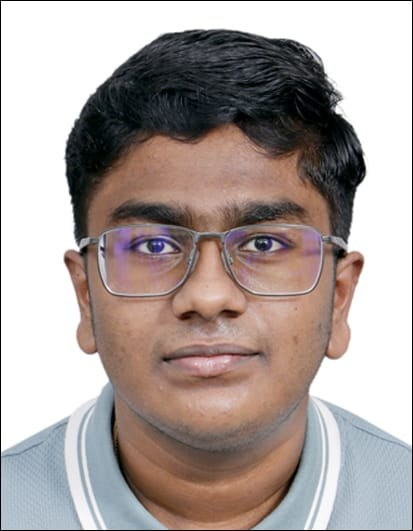
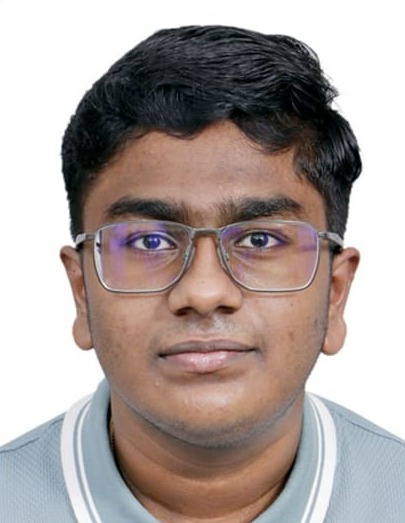
Class Committee shows every stage colour it spans; professional photo leads the home hero

diff --git a/index.html b/index.html
@@ -40,7 +40,7 @@
 }
 </script>
 <link rel="preconnect" href="https://fonts.googleapis.com"><link rel="preconnect" href="https://fonts.gstatic.com" crossorigin><link rel="stylesheet" href="https://fonts.googleapis.com/css2?family=Manrope:wght@400;500;600;700;800&display=swap">
-<link rel="stylesheet" href="style.css?v=11202332">
+<link rel="stylesheet" href="style.css?v=95223587">
 <link rel="stylesheet" href="polish.css?v=11202332">
 </head>
 <body>
@@ -77,7 +77,7 @@
       </div>
       <figure class="vf bt-photo" id="vf">
         <div class="vf-frame tilt">
-          <img class="vfi on" src="moments/me-boat.webp" alt="Devadarshan on a mangrove boat tour" style="object-position:50% 42%" data-l="Me" data-t="Devadarshan" fetchpriority="high" decoding="async"><img class="vfi app" src="moments/app-clearway.webp" alt="Screenshot of Clearway, a lunar landing-site planner comparing sites by sunlight and Earth link" style="object-position:50% 50%" data-l="Project" data-t="Clearway · NASA Space Apps 2026" data-go="projects" data-link="See the project" loading="lazy" decoding="async"><img class="vfi" src="photography/best-jellyfish-sm.webp" alt="A swirl of sea nettle jellyfish glowing against a black aquarium" style="object-position:50% 50%" data-l="Featured" data-t="Jellyfish" loading="lazy" decoding="async"><img class="vfi app" src="moments/app-sgwayfinder.webp" alt="Title screen of SG Wayfinder, a Singapore navigation game with a train-line map graphic" style="object-position:50% 50%" data-l="Project" data-t="SG Wayfinder" data-go="projects" data-link="See the project" loading="lazy" decoding="async"><img class="vfi" src="photography/best-clownfish-sm.webp" alt="A clownfish facing the camera against a soft blue background" style="object-position:50% 40%" data-l="Featured" data-t="Clownfish" loading="lazy" decoding="async"><img class="vfi" src="photography/best-bw-tree-sm.webp" alt="Black and white view up into a Supertree walkway at night" style="object-position:50% 50%" data-l="Featured" data-t="Supertree, in black and white" loading="lazy" decoding="async"><img class="vfi" src="photography/temple-gopuram-sm.webp" alt="Colourful sculpted gopuram of a Hindu temple against a deep blue sky" style="object-position:50% 50%" data-l="Heritage" data-t="Gopuram" loading="lazy" decoding="async">
+          <img class="vfi on" src="moments/devadarshan-portrait.webp" alt="Portrait of Balamurugan Devadarshan in school blazer and tie" style="object-fit:contain;object-position:50% 40%;background:#fff" data-l="Me" data-t="Devadarshan" width="405" height="523" fetchpriority="high" decoding="async"><img class="vfi" src="moments/me-boat.webp" alt="Devadarshan on a mangrove boat tour" style="object-position:50% 42%" data-l="Me" data-t="On a mangrove tour" loading="lazy" decoding="async"><img class="vfi app" src="moments/app-clearway.webp" alt="Screenshot of Clearway, a lunar landing-site planner comparing sites by sunlight and Earth link" style="object-position:50% 50%" data-l="Project" data-t="Clearway · NASA Space Apps 2026" data-go="projects" data-link="See the project" loading="lazy" decoding="async"><img class="vfi" src="photography/best-jellyfish-sm.webp" alt="A swirl of sea nettle jellyfish glowing against a black aquarium" style="object-position:50% 50%" data-l="Featured" data-t="Jellyfish" loading="lazy" decoding="async"><img class="vfi app" src="moments/app-sgwayfinder.webp" alt="Title screen of SG Wayfinder, a Singapore navigation game with a train-line map graphic" style="object-position:50% 50%" data-l="Project" data-t="SG Wayfinder" data-go="projects" data-link="See the project" loading="lazy" decoding="async"><img class="vfi" src="photography/best-clownfish-sm.webp" alt="A clownfish facing the camera against a soft blue background" style="object-position:50% 40%" data-l="Featured" data-t="Clownfish" loading="lazy" decoding="async"><img class="vfi" src="photography/best-bw-tree-sm.webp" alt="Black and white view up into a Supertree walkway at night" style="object-position:50% 50%" data-l="Featured" data-t="Supertree, in black and white" loading="lazy" decoding="async"><img class="vfi" src="photography/temple-gopuram-sm.webp" alt="Colourful sculpted gopuram of a Hindu temple against a deep blue sky" style="object-position:50% 50%" data-l="Heritage" data-t="Gopuram" loading="lazy" decoding="async">
           <i class="cb tl"></i><i class="cb tr"></i><i class="cb bl"></i><i class="cb br"></i>
           <span class="thirds" aria-hidden="true"></span>
           <span class="vf-top mono"><b id="vfn">01</b>/07 <em id="vfl">Me</em></span>
@@ -927,7 +927,7 @@
 <div id="rain" aria-hidden="true"><canvas id="rainc"></canvas><p>MATRIX MODE · press Esc to exit</p></div>
 <div class="toast" id="toast" role="status" aria-live="polite"></div>
 
-<script src="script.js?v=11202332" defer></script>
+<script src="script.js?v=95223587" defer></script>
 <script src="polish.js?v=11202332" defer></script>
 <script data-goatcounter="https://devadarshan95.goatcounter.com/count" async src="//gc.zgo.at/count.js"></script>
 </body>

diff --git a/style.css b/style.css
@@ -1205,3 +1205,17 @@ html[data-theme="dark"] .dock{background:rgba(8,14,40,.95)}
 @media (max-width:560px){.portrait img{aspect-ratio:1/1;object-position:50% 20%}}
 @media (min-width:981px){.portrait img{aspect-ratio:1/1;object-position:50% 18%}}
 @media (max-width:360px){.tools{gap:6px}.ibtn{min-width:44px;min-height:44px;padding-left:0;padding-right:0;justify-content:center}}
+
+/* roles that span several school stages: one edge, every stage's colour */
+.rl button[data-multi]{position:relative;overflow:hidden;box-shadow:none}
+.rl button[data-multi]::before{content:"";position:absolute;left:0;top:0;bottom:0;width:4px;background:var(--edge-v)}
+.rl button[data-multi] small{background:var(--edge-h);-webkit-background-clip:text;background-clip:text;-webkit-text-fill-color:transparent;color:transparent;width:max-content;max-width:100%}
+.rl button[data-multi][aria-selected="true"]{box-shadow:none}
+.rl button[data-multi][aria-selected="true"] small{background:none;-webkit-text-fill-color:#fff;color:#fff!important}
+@media (max-width:820px){
+  .rl button[data-multi]::before{right:0;bottom:auto;width:auto;height:3px;background:var(--edge-h)}
+}
+.panel[data-multi] .when::before{background:var(--edge-h);box-shadow:0 0 0 4px color-mix(in srgb,var(--st-s) 24%,transparent)}
+.panel[data-multi="sj"] .when{color:var(--st-s)}
+.panel[data-multi="sj"] .when::after{content:"Secondary school and Junior College"}
+.panel[data-multi="psj"] .when::after{content:"Primary, Secondary and Junior College"}

diff --git a/script.js b/script.js
@@ -541,6 +541,16 @@
       var y0 = +m[1], all = ($('small', t).textContent.match(/\d{4}/g) || []), y1 = +all[all.length - 1] || y0;
       if (/Present/i.test($('small', t).textContent)) y1 = 2026;
       t.dataset.stage = stageOf(y0);
+      /* a role that runs across more than one school stage carries each stage's colour */
+      var order = ['p', 's', 'j'], span = order.slice(order.indexOf(stageOf(y0)), order.indexOf(stageOf(y1)) + 1);
+      if (span.length > 1) {
+        var n = span.length, edge = span.map(function (k, i) { return 'var(--st-' + k + ') ' + (i * 100 / n) + '% ' + ((i + 1) * 100 / n) + '%'; }).join(',');
+        t.dataset.multi = span.join('');
+        t.style.setProperty('--edge-v', 'linear-gradient(180deg,' + edge + ')');
+        t.style.setProperty('--edge-h', 'linear-gradient(90deg,' + edge + ')');
+        var pn = document.getElementById(t.getAttribute('aria-controls'));
+        if (pn) { pn.dataset.multi = span.join(''); pn.style.setProperty('--edge-h', 'linear-gradient(90deg,' + edge + ')'); }
+      }
       var panel = document.getElementById(t.getAttribute('aria-controls')); if (panel) panel.dataset.stage = stageOf(y0);
       var bar = $('.trk i', t); if (!bar) return;
       var left = parseFloat(bar.style.left), w = parseFloat(bar.style.width); if (!(w > 0)) return;
